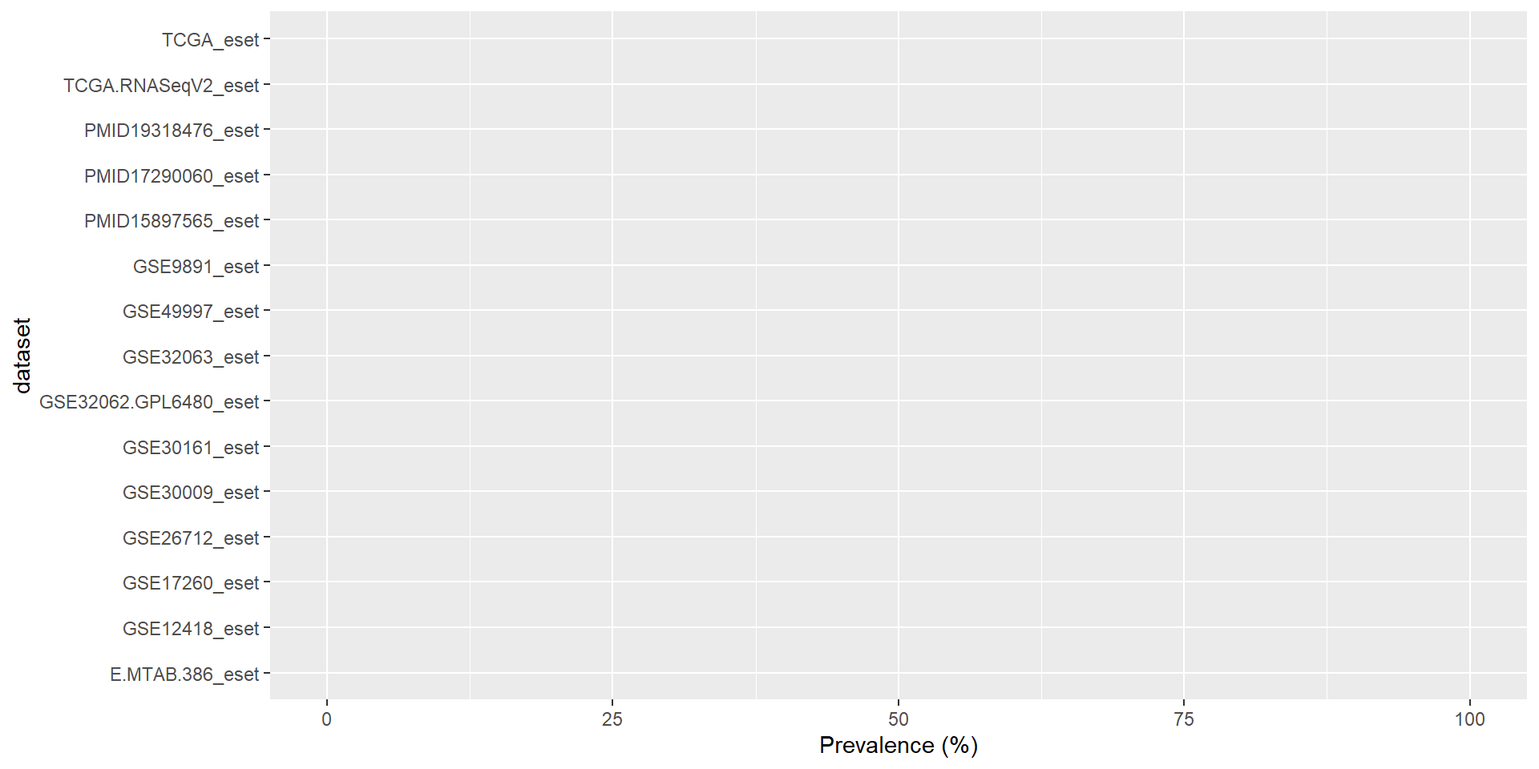
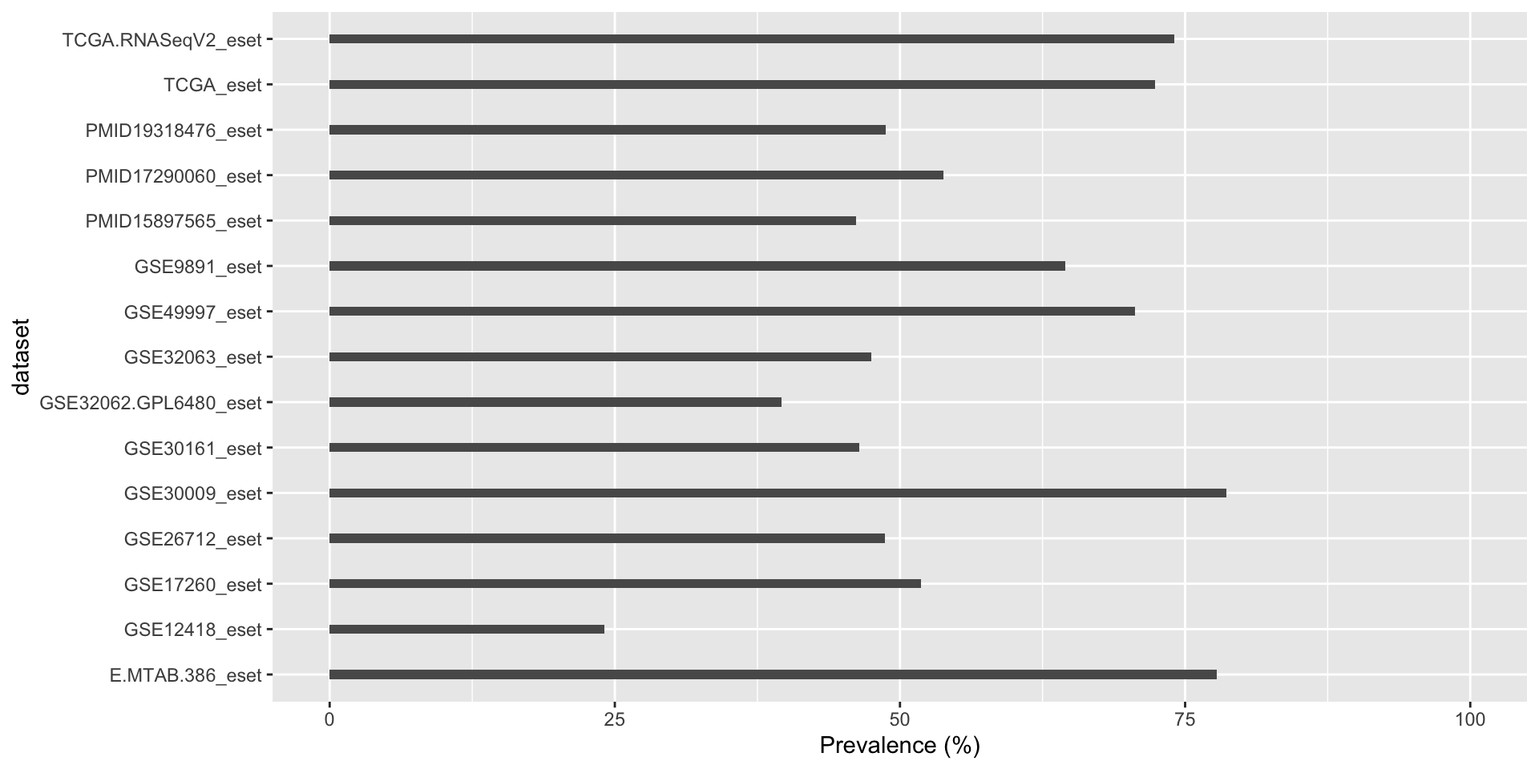
updating solutions

diff --git a/03-biostatistics/slides/03-biostatistics-solutions.html b/03-biostatistics/slides/03-biostatistics-solutions.html
@@ -12,7 +12,7 @@
 <script src="03-biostatistics-solutions_files/libs/quarto-contrib/code-fullscreen-1.0.0/code-fullscreen.js" defer="true"></script>
 <link href="03-biostatistics-solutions_files/libs/quarto-contrib/code-fullscreen-1.0.0/code-fullscreen.css" rel="stylesheet"><link rel="stylesheet" href="https://cdnjs.cloudflare.com/ajax/libs/font-awesome/4.7.0/css/font-awesome.min.css">
   <meta charset="utf-8">
-  <meta name="generator" content="quarto-1.3.450">
+  <meta name="generator" content="quarto-1.3.361">
 
   <meta name="author" content="Filippo Gambarota">
   <meta name="author" content="Gianmarco Altoè">
@@ -34,6 +34,71 @@
       margin: 0 0.8em 0.2em -1em; /* quarto-specific, see https://github.com/quarto-dev/quarto-cli/issues/4556 */ 
       vertical-align: middle;
     }
+    /* CSS for syntax highlighting */
+    pre > code.sourceCode { white-space: pre; position: relative; }
+    pre > code.sourceCode > span { display: inline-block; line-height: 1.25; }
+    pre > code.sourceCode > span:empty { height: 1.2em; }
+    .sourceCode { overflow: visible; }
+    code.sourceCode > span { color: inherit; text-decoration: inherit; }
+    div.sourceCode { margin: 1em 0; }
+    pre.sourceCode { margin: 0; }
+    @media screen {
+    div.sourceCode { overflow: auto; }
+    }
+    @media print {
+    pre > code.sourceCode { white-space: pre-wrap; }
+    pre > code.sourceCode > span { text-indent: -5em; padding-left: 5em; }
+    }
+    pre.numberSource code
+      { counter-reset: source-line 0; }
+    pre.numberSource code > span
+      { position: relative; left: -4em; counter-increment: source-line; }
+    pre.numberSource code > span > a:first-child::before
+      { content: counter(source-line);
+        position: relative; left: -1em; text-align: right; vertical-align: baseline;
+        border: none; display: inline-block;
+        -webkit-touch-callout: none; -webkit-user-select: none;
+        -khtml-user-select: none; -moz-user-select: none;
+        -ms-user-select: none; user-select: none;
+        padding: 0 4px; width: 4em;
+        color: #aaaaaa;
+      }
+    pre.numberSource { margin-left: 3em; border-left: 1px solid #aaaaaa;  padding-left: 4px; }
+    div.sourceCode
+      { color: #003b4f; background-color: #f1f3f5; }
+    @media screen {
+    pre > code.sourceCode > span > a:first-child::before { text-decoration: underline; }
+    }
+    code span { color: #003b4f; } /* Normal */
+    code span.al { color: #ad0000; } /* Alert */
+    code span.an { color: #5e5e5e; } /* Annotation */
+    code span.at { color: #657422; } /* Attribute */
+    code span.bn { color: #ad0000; } /* BaseN */
+    code span.bu { } /* BuiltIn */
+    code span.cf { color: #003b4f; } /* ControlFlow */
+    code span.ch { color: #20794d; } /* Char */
+    code span.cn { color: #8f5902; } /* Constant */
+    code span.co { color: #5e5e5e; } /* Comment */
+    code span.cv { color: #5e5e5e; font-style: italic; } /* CommentVar */
+    code span.do { color: #5e5e5e; font-style: italic; } /* Documentation */
+    code span.dt { color: #ad0000; } /* DataType */
+    code span.dv { color: #ad0000; } /* DecVal */
+    code span.er { color: #ad0000; } /* Error */
+    code span.ex { } /* Extension */
+    code span.fl { color: #ad0000; } /* Float */
+    code span.fu { color: #4758ab; } /* Function */
+    code span.im { color: #00769e; } /* Import */
+    code span.in { color: #5e5e5e; } /* Information */
+    code span.kw { color: #003b4f; } /* Keyword */
+    code span.op { color: #5e5e5e; } /* Operator */
+    code span.ot { color: #003b4f; } /* Other */
+    code span.pp { color: #ad0000; } /* Preprocessor */
+    code span.sc { color: #5e5e5e; } /* SpecialChar */
+    code span.ss { color: #20794d; } /* SpecialString */
+    code span.st { color: #20794d; } /* String */
+    code span.va { color: #111111; } /* Variable */
+    code span.vs { color: #20794d; } /* VerbatimString */
+    code span.wa { color: #5e5e5e; font-style: italic; } /* Warning */
   </style>
   <link rel="stylesheet" href="03-biostatistics-solutions_files/libs/revealjs/dist/theme/quarto.css">
   <link href="03-biostatistics-solutions_files/libs/revealjs/plugin/quarto-line-highlight/line-highlight.css" rel="stylesheet">
@@ -353,32 +418,19 @@ Gianmarco Altoè <a href="https://orcid.org/0000-0003-1154-9528" class="quarto-t
 </div>
 
   <p class="date">18-22 September 2023</p>
-</section><section id="TOC">
-<nav role="doc-toc"> 
-<h2 id="toc-title">Table of contents</h2>
-<ul>
-<li>
-<ul>
-<li><a href="#/packages" id="/toc-packages">Packages</a></li>
-</ul></li>
-<li><a href="#/proposed-solutions" id="/toc-proposed-solutions">Proposed solutions</a>
-<ul>
-<li><a href="#/setup" id="/toc-setup">Setup</a></li>
-<li><a href="#/prevalence" id="/toc-prevalence">Prevalence</a></li>
-<li><a href="#/debulking-gene" id="/toc-debulking-gene">debulking ~ gene</a></li>
-<li><a href="#/auc-and-standard-error" id="/toc-auc-and-standard-error">AUC and standard error</a></li>
-<li><a href="#/meta-analysis" id="/toc-meta-analysis">Meta-analysis</a></li>
-<li><a href="#/meta-analysis-1" id="/toc-meta-analysis-1">Meta-analysis</a></li>
-<li><a href="#/forest-plot" id="/toc-forest-plot">Forest Plot</a></li>
-</ul></li>
-<li><a href="#/comments" id="/toc-comments">Comments?</a></li>
-</ul>
-</nav>
 </section>
 
 <section class="slide level2">
 
 <h3 id="packages">Packages</h3>
+<div class="cell">
+<div class="sourceCode cell-code" id="cb1"><pre class="sourceCode numberSource r number-lines code-with-copy"><code class="sourceCode r"><span id="cb1-1"><a href="#cb1-1"></a><span class="fu">library</span>(tidyverse) <span class="co"># for data manipulation</span></span>
+<span id="cb1-2"><a href="#cb1-2"></a><span class="fu">library</span>(curatedOvarianData) <span class="co"># workshop data</span></span>
+<span id="cb1-3"><a href="#cb1-3"></a><span class="fu">library</span>(pROC)</span>
+<span id="cb1-4"><a href="#cb1-4"></a>devtools<span class="sc">::</span><span class="fu">load_all</span>() <span class="co"># load all functions for the workshop</span></span>
+<span id="cb1-5"><a href="#cb1-5"></a><span class="fu">library</span>(here)</span>
+<span id="cb1-6"><a href="#cb1-6"></a><span class="fu">library</span>(kableExtra)</span></code><button title="Copy to Clipboard" class="code-copy-button"><i class="bi"></i></button></pre></div>
+</div>
 </section>
 <section>
 <section id="proposed-solutions" class="title-slide slide level1 section center">
@@ -389,14 +441,23 @@ Gianmarco Altoè <a href="https://orcid.org/0000-0003-1154-9528" class="quarto-t
 <h2>Setup</h2>
 <p>Firstly, let’s subset the dataset selecting our predictor (i.e., the <strong>debulking</strong>), the dataset name and the selected gene.</p>
 <div class="cell">
+<div class="sourceCode cell-code" id="cb2"><pre class="sourceCode numberSource r number-lines code-with-copy"><code class="sourceCode r"><span id="cb2-1"><a href="#cb2-1"></a>datl <span class="ot">&lt;-</span> <span class="fu">readRDS</span>(<span class="fu">here</span>(<span class="st">"03-biostatistics"</span>, <span class="st">"objects"</span>, <span class="st">"ovarianclean.rds"</span>))</span>
+<span id="cb2-2"><a href="#cb2-2"></a>dat <span class="ot">&lt;-</span> dplyr<span class="sc">::</span><span class="fu">bind_rows</span>(datl, <span class="at">.id =</span> <span class="st">"dataset"</span>)</span>
+<span id="cb2-3"><a href="#cb2-3"></a></span>
+<span id="cb2-4"><a href="#cb2-4"></a><span class="co"># creating the binary debulking variable</span></span>
+<span id="cb2-5"><a href="#cb2-5"></a>dat<span class="sc">$</span>debulking01 <span class="ot">&lt;-</span> <span class="fu">ifelse</span>(dat<span class="sc">$</span>debulking <span class="sc">==</span> <span class="st">"optimal"</span>, <span class="dv">1</span>, <span class="dv">0</span>)</span>
+<span id="cb2-6"><a href="#cb2-6"></a></span>
+<span id="cb2-7"><a href="#cb2-7"></a>gene <span class="ot">&lt;-</span> <span class="st">"ABCA1"</span></span>
+<span id="cb2-8"><a href="#cb2-8"></a>dat_meta <span class="ot">&lt;-</span> dat[, <span class="fu">c</span>(<span class="st">"dataset"</span>, <span class="st">"debulking"</span>, <span class="st">"debulking01"</span>, gene)]</span>
+<span id="cb2-9"><a href="#cb2-9"></a><span class="fu">head</span>(dat_meta)</span></code><button title="Copy to Clipboard" class="code-copy-button"><i class="bi"></i></button></pre></div>
 <div class="cell-output cell-output-stdout">
-<pre><code>          dataset  debulking     ABCA1
-1 E.MTAB.386_eset suboptimal 10.839395
-2 E.MTAB.386_eset    optimal 11.227465
-3 E.MTAB.386_eset    optimal 11.375979
-4 E.MTAB.386_eset    optimal  9.716625
-5 E.MTAB.386_eset suboptimal 11.647426
-6 E.MTAB.386_eset    optimal 10.291002</code></pre>
+<pre><code>          dataset  debulking debulking01     ABCA1
+1 E.MTAB.386_eset suboptimal           0 10.839395
+2 E.MTAB.386_eset    optimal           1 11.227465
+3 E.MTAB.386_eset    optimal           1 11.375979
+4 E.MTAB.386_eset    optimal           1  9.716625
+5 E.MTAB.386_eset suboptimal           0 11.647426
+6 E.MTAB.386_eset    optimal           1 10.291002</code></pre>
 </div>
 </div>
 </section>
@@ -408,21 +469,38 @@ Gianmarco Altoè <a href="https://orcid.org/0000-0003-1154-9528" class="quarto-t
 <div class="tab-content">
 <div id="tabset-1-1">
 <div class="cell">
+<div class="sourceCode cell-code" id="cb4"><pre class="sourceCode numberSource r number-lines code-with-copy"><code class="sourceCode r"><span id="cb4-1"><a href="#cb4-1"></a>prev_and_n <span class="ot">&lt;-</span> <span class="cf">function</span>(data){</span>
+<span id="cb4-2"><a href="#cb4-2"></a>  <span class="fu">data.frame</span>(</span>
+<span id="cb4-3"><a href="#cb4-3"></a>    <span class="at">p =</span> <span class="fu">mean</span>(data<span class="sc">$</span>debulking01, <span class="at">na.rm =</span> <span class="cn">TRUE</span>),</span>
+<span id="cb4-4"><a href="#cb4-4"></a>    <span class="at">n =</span> <span class="fu">nrow</span>(data)</span>
+<span id="cb4-5"><a href="#cb4-5"></a>  )</span>
+<span id="cb4-6"><a href="#cb4-6"></a>}</span>
+<span id="cb4-7"><a href="#cb4-7"></a>prev <span class="ot">&lt;-</span> <span class="fu">lapply</span>(<span class="fu">split</span>(dat_meta, dat_meta<span class="sc">$</span>dataset), prev_and_n)</span>
+<span id="cb4-8"><a href="#cb4-8"></a>prev <span class="ot">&lt;-</span> dplyr<span class="sc">::</span><span class="fu">bind_rows</span>(prev, <span class="at">.id =</span> <span class="st">"dataset"</span>)</span>
+<span id="cb4-9"><a href="#cb4-9"></a><span class="fu">head</span>(prev)</span></code><button title="Copy to Clipboard" class="code-copy-button"><i class="bi"></i></button></pre></div>
 <div class="cell-output cell-output-stdout">
-<pre><code>          dataset  p   n
-1 E.MTAB.386_eset NA 129
-2   GSE12418_eset NA  54
-3   GSE17260_eset NA 110
-4   GSE26712_eset NA 195
-5   GSE30009_eset NA 103
-6   GSE30161_eset NA  58</code></pre>
+<pre><code>          dataset         p   n
+1 E.MTAB.386_eset 0.7777778 129
+2   GSE12418_eset 0.2407407  54
+3   GSE17260_eset 0.5181818 110
+4   GSE26712_eset 0.4864865 195
+5   GSE30009_eset 0.7864078 103
+6   GSE30161_eset 0.4642857  58</code></pre>
 </div>
 </div>
 </div>
 <div id="tabset-1-2">
-<div class="cell">
+<div class="cell" data-warnign="false">
+<details>
+<summary>Code</summary>
+<div class="sourceCode cell-code" id="cb6"><pre class="sourceCode numberSource r number-lines code-with-copy"><code class="sourceCode r"><span id="cb6-1"><a href="#cb6-1"></a>prev <span class="sc">|&gt;</span> </span>
+<span id="cb6-2"><a href="#cb6-2"></a>  <span class="fu">ggplot</span>(<span class="fu">aes</span>(<span class="at">x =</span> p<span class="sc">*</span><span class="dv">100</span>, <span class="at">y =</span> dataset)) <span class="sc">+</span></span>
+<span id="cb6-3"><a href="#cb6-3"></a>  <span class="fu">geom_col</span>(<span class="at">width =</span> <span class="fl">0.2</span>) <span class="sc">+</span></span>
+<span id="cb6-4"><a href="#cb6-4"></a>  <span class="fu">xlab</span>(<span class="st">"Prevalence (%)"</span>) <span class="sc">+</span></span>
+<span id="cb6-5"><a href="#cb6-5"></a>  <span class="fu">xlim</span>(<span class="fu">c</span>(<span class="dv">0</span>, <span class="dv">100</span>))</span></code><button title="Copy to Clipboard" class="code-copy-button"><i class="bi"></i></button></pre></div>
+</details>
 <div class="cell-output-display">
-<p><img data-src="03-biostatistics-solutions_files/figure-revealjs/unnamed-chunk-4-1.png" width="960"></p>
+<p><img data-src="03-biostatistics-solutions_files/figure-revealjs/unnamed-chunk-5-1.png" width="960"></p>
 </div>
 </div>
 </div>
@@ -432,8 +510,21 @@ Gianmarco Altoè <a href="https://orcid.org/0000-0003-1154-9528" class="quarto-t
 <section id="debulking-gene" class="slide level2">
 <h2>debulking ~ gene</h2>
 <p>Let’s see the density plots for dataset with the gene ABCA1:</p>
+<div class="cell">
+<details>
+<summary>Code</summary>
+<div class="sourceCode cell-code" id="cb7"><pre class="sourceCode numberSource r number-lines code-with-copy"><code class="sourceCode r"><span id="cb7-1"><a href="#cb7-1"></a>dat_meta <span class="sc">|&gt;</span> </span>
+<span id="cb7-2"><a href="#cb7-2"></a>  <span class="fu">drop_na</span>(debulking) <span class="sc">|&gt;</span> </span>
+<span id="cb7-3"><a href="#cb7-3"></a>  <span class="fu">ggplot</span>(<span class="fu">aes</span>(<span class="at">x =</span> ABCA1, <span class="at">fill =</span> debulking)) <span class="sc">+</span></span>
+<span id="cb7-4"><a href="#cb7-4"></a>  <span class="fu">geom_density</span>() <span class="sc">+</span></span>
+<span id="cb7-5"><a href="#cb7-5"></a>  <span class="fu">facet_wrap</span>(<span class="sc">~</span>dataset) <span class="sc">+</span></span>
+<span id="cb7-6"><a href="#cb7-6"></a>  <span class="fu">theme</span>(<span class="at">legend.position =</span> <span class="fu">c</span>(<span class="fl">0.9</span>,<span class="fl">0.1</span>),</span>
+<span id="cb7-7"><a href="#cb7-7"></a>        <span class="at">legend.title =</span> <span class="fu">element_blank</span>(),</span>
+<span id="cb7-8"><a href="#cb7-8"></a>        <span class="at">axis.title.y =</span> <span class="fu">element_blank</span>())</span></code><button title="Copy to Clipboard" class="code-copy-button"><i class="bi"></i></button></pre></div>
+</details>
 
-<img data-src="03-biostatistics-solutions_files/figure-revealjs/unnamed-chunk-5-1.png" width="960" class="r-stretch"><p>In some datasets, the gene ABCA1 discriminate more between the the debulking outcomes.</p>
+</div>
+<img data-src="03-biostatistics-solutions_files/figure-revealjs/unnamed-chunk-6-1.png" width="960" class="r-stretch"><p>In some datasets, the gene ABCA1 discriminate more between the the debulking outcomes.</p>
 </section>
 <section id="auc-and-standard-error" class="slide level2">
 <h2>AUC and standard error</h2>
@@ -441,10 +532,22 @@ Gianmarco Altoè <a href="https://orcid.org/0000-0003-1154-9528" class="quarto-t
 <ul id="tabset-2" class="panel-tabset-tabby"><li><a data-tabby-default="" href="#tabset-2-1">ROC</a></li><li><a href="#tabset-2-2">Analytical method</a></li><li><a href="#tabset-2-3">Plot</a></li><li><a href="#tabset-2-4">Bootstrapping</a></li><li><a href="#tabset-2-5">Plot</a></li></ul>
 <div class="tab-content">
 <div id="tabset-2-1">
-
+<div class="cell">
+<div class="sourceCode cell-code" id="cb8"><pre class="sourceCode numberSource r number-lines code-with-copy"><code class="sourceCode r"><span id="cb8-1"><a href="#cb8-1"></a>roc_list <span class="ot">&lt;-</span> <span class="fu">lapply</span>(<span class="fu">split</span>(dat_meta, dat_meta<span class="sc">$</span>dataset), </span>
+<span id="cb8-2"><a href="#cb8-2"></a>                   <span class="cf">function</span>(x) pROC<span class="sc">::</span><span class="fu">roc</span>(debulking <span class="sc">~</span> ABCA1, <span class="at">data =</span> x))</span></code><button title="Copy to Clipboard" class="code-copy-button"><i class="bi"></i></button></pre></div>
+</div>
 </div>
 <div id="tabset-2-2">
 <div class="cell">
+<div class="sourceCode cell-code" id="cb9"><pre class="sourceCode numberSource r number-lines code-with-copy"><code class="sourceCode r"><span id="cb9-1"><a href="#cb9-1"></a>aucs <span class="ot">&lt;-</span> <span class="fu">sapply</span>(roc_list,  auc)</span>
+<span id="cb9-2"><a href="#cb9-2"></a><span class="co"># the var function is used to compute the sampling variability</span></span>
+<span id="cb9-3"><a href="#cb9-3"></a>aucs_se <span class="ot">&lt;-</span> <span class="fu">sapply</span>(roc_list, <span class="cf">function</span>(x) <span class="fu">sqrt</span>(<span class="fu">var</span>(x)))</span>
+<span id="cb9-4"><a href="#cb9-4"></a>auc_d <span class="ot">&lt;-</span> <span class="fu">data.frame</span>(<span class="at">dataset =</span> <span class="fu">names</span>(aucs), <span class="at">auc =</span> aucs, <span class="at">se =</span> aucs_se)</span>
+<span id="cb9-5"><a href="#cb9-5"></a>ci <span class="ot">&lt;-</span> <span class="fu">sapply</span>(roc_list, <span class="cf">function</span>(x) pROC<span class="sc">::</span><span class="fu">ci.auc</span>(x))</span>
+<span id="cb9-6"><a href="#cb9-6"></a>auc_d<span class="sc">$</span>lower <span class="ot">&lt;-</span> ci[<span class="dv">1</span>, ]</span>
+<span id="cb9-7"><a href="#cb9-7"></a>auc_d<span class="sc">$</span>upper <span class="ot">&lt;-</span> ci[<span class="dv">3</span>, ]</span>
+<span id="cb9-8"><a href="#cb9-8"></a></span>
+<span id="cb9-9"><a href="#cb9-9"></a><span class="fu">head</span>(auc_d)</span></code><button title="Copy to Clipboard" class="code-copy-button"><i class="bi"></i></button></pre></div>
 <div class="cell-output cell-output-stdout">
 <pre><code>                        dataset       auc         se     lower     upper
 E.MTAB.386_eset E.MTAB.386_eset 0.4713921 0.07114057 0.3319592 0.6108251
@@ -458,28 +561,65 @@ GSE30161_eset     GSE30161_eset 0.5435897 0.08069339 0.3854336 0.7017459</code><
 </div>
 <div id="tabset-2-3">
 <div class="cell">
+<details>
+<summary>Code</summary>
+<div class="sourceCode cell-code" id="cb11"><pre class="sourceCode numberSource r number-lines code-with-copy"><code class="sourceCode r"><span id="cb11-1"><a href="#cb11-1"></a>auc_d <span class="sc">|&gt;</span> </span>
+<span id="cb11-2"><a href="#cb11-2"></a>  <span class="fu">ggplot</span>(<span class="fu">aes</span>(<span class="at">x =</span> auc, <span class="at">y =</span> dataset)) <span class="sc">+</span></span>
+<span id="cb11-3"><a href="#cb11-3"></a>  <span class="fu">geom_point</span>() <span class="sc">+</span></span>
+<span id="cb11-4"><a href="#cb11-4"></a>  <span class="fu">geom_segment</span>(<span class="fu">aes</span>(<span class="at">x =</span> lower, <span class="at">xend =</span> upper, <span class="at">y =</span> dataset, <span class="at">yend =</span> dataset)) <span class="sc">+</span></span>
+<span id="cb11-5"><a href="#cb11-5"></a>  <span class="fu">xlim</span>(<span class="fu">c</span>(<span class="dv">0</span>, <span class="dv">1</span>))</span></code><button title="Copy to Clipboard" class="code-copy-button"><i class="bi"></i></button></pre></div>
+</details>
 <div class="cell-output-display">
-<p><img data-src="03-biostatistics-solutions_files/figure-revealjs/unnamed-chunk-8-1.png" width="960"></p>
+<p><img data-src="03-biostatistics-solutions_files/figure-revealjs/unnamed-chunk-9-1.png" width="960"></p>
 </div>
 </div>
 </div>
 <div id="tabset-2-4">
-<div class="cell">
+<div class="cell" data-hash="03-biostatistics-solutions_cache/revealjs/unnamed-chunk-10_ec3e3af23134f8553698acaa69c67d26">
+<div class="sourceCode cell-code" id="cb12"><pre class="sourceCode numberSource r number-lines code-with-copy"><code class="sourceCode r"><span id="cb12-1"><a href="#cb12-1"></a>boot_auc <span class="ot">&lt;-</span> <span class="cf">function</span>(fit, <span class="at">nboot =</span> <span class="fl">5e3</span>, <span class="at">direction =</span> <span class="cn">NULL</span>){</span>
+<span id="cb12-2"><a href="#cb12-2"></a>    <span class="cf">if</span>(<span class="fu">is.null</span>(direction)) direction <span class="ot">&lt;-</span> fit<span class="sc">$</span>direction</span>
+<span id="cb12-3"><a href="#cb12-3"></a>    aucs <span class="ot">&lt;-</span> <span class="fu">rep</span>(<span class="dv">0</span>, nboot)</span>
+<span id="cb12-4"><a href="#cb12-4"></a>    <span class="cf">for</span>(i <span class="cf">in</span> <span class="dv">1</span><span class="sc">:</span>nboot){</span>
+<span id="cb12-5"><a href="#cb12-5"></a>        controls <span class="ot">&lt;-</span> <span class="fu">sample</span>(fit<span class="sc">$</span>controls, <span class="at">replace =</span> <span class="cn">TRUE</span>)</span>
+<span id="cb12-6"><a href="#cb12-6"></a>        cases <span class="ot">&lt;-</span> <span class="fu">sample</span>(fit<span class="sc">$</span>cases, <span class="at">replace =</span> <span class="cn">TRUE</span>)</span>
+<span id="cb12-7"><a href="#cb12-7"></a>        aucs[i] <span class="ot">&lt;-</span> pROC<span class="sc">::</span><span class="fu">roc</span>(<span class="at">cases =</span> cases, <span class="at">controls =</span> controls, <span class="at">direction =</span> direction, <span class="at">quiet =</span> <span class="cn">TRUE</span>)<span class="sc">$</span>auc</span>
+<span id="cb12-8"><a href="#cb12-8"></a>    }</span>
+<span id="cb12-9"><a href="#cb12-9"></a>    <span class="fu">return</span>(aucs)</span>
+<span id="cb12-10"><a href="#cb12-10"></a>}</span>
+<span id="cb12-11"><a href="#cb12-11"></a></span>
+<span id="cb12-12"><a href="#cb12-12"></a><span class="fu">set.seed</span>(<span class="dv">2023</span>)</span>
+<span id="cb12-13"><a href="#cb12-13"></a><span class="co"># get the direction, auto detecting direction could lead to biased AUC see https://cran.r-project.org/web/packages/pROC/pROC.pdf</span></span>
+<span id="cb12-14"><a href="#cb12-14"></a></span>
+<span id="cb12-15"><a href="#cb12-15"></a>auc_list <span class="ot">&lt;-</span> <span class="fu">lapply</span>(roc_list, boot_auc)</span>
+<span id="cb12-16"><a href="#cb12-16"></a>aucs_se <span class="ot">&lt;-</span> <span class="fu">sapply</span>(auc_list, sd)</span>
+<span id="cb12-17"><a href="#cb12-17"></a>aucs_qs <span class="ot">&lt;-</span> <span class="fu">sapply</span>(auc_list, <span class="cf">function</span>(x) <span class="fu">quantile</span>(x, <span class="fu">c</span>(<span class="fl">0.025</span>, <span class="fl">0.5</span>, <span class="fl">0.975</span>)))</span>
+<span id="cb12-18"><a href="#cb12-18"></a>aucs_qs <span class="ot">&lt;-</span> <span class="fu">t</span>(aucs_qs)</span>
+<span id="cb12-19"><a href="#cb12-19"></a>aucs_d <span class="ot">&lt;-</span> <span class="fu">data.frame</span>(<span class="at">auc =</span> aucs_qs[, <span class="dv">2</span>], <span class="at">se =</span> aucs_se, <span class="at">lower =</span> aucs_qs[, <span class="dv">1</span>], <span class="at">upper =</span> aucs_qs[, <span class="dv">3</span>], <span class="at">dataset =</span> <span class="fu">names</span>(roc_list))</span>
+<span id="cb12-20"><a href="#cb12-20"></a></span>
+<span id="cb12-21"><a href="#cb12-21"></a><span class="fu">head</span>(aucs_d)</span></code><button title="Copy to Clipboard" class="code-copy-button"><i class="bi"></i></button></pre></div>
 <div class="cell-output cell-output-stdout">
 <pre><code>                      auc         se     lower     upper         dataset
-E.MTAB.386_eset 0.4897524 0.08032911 0.3787170 0.6140611 E.MTAB.386_eset
-GSE12418_eset   0.4122475 0.11257063 0.2974702 0.6398920   GSE12418_eset
-GSE17260_eset   0.5029161 0.06505857 0.4446659 0.6247987   GSE17260_eset
-GSE26712_eset   0.5014737 0.03141245 0.4427707 0.5368486   GSE26712_eset
-GSE30009_eset   0.5880806 0.08965026 0.3924290 0.6555517   GSE30009_eset
-GSE30161_eset   0.5893981 0.08012873 0.4767903 0.7264124   GSE30161_eset</code></pre>
+E.MTAB.386_eset 0.4712099 0.06999751 0.3363566 0.6049563 E.MTAB.386_eset
+GSE12418_eset   0.4969136 0.10109867 0.2962963 0.6944444   GSE12418_eset
+GSE17260_eset   0.5150612 0.05541150 0.4094505 0.6229725   GSE17260_eset
+GSE26712_eset   0.4934503 0.04343229 0.4080643 0.5780146   GSE26712_eset
+GSE30009_eset   0.5244108 0.07129170 0.3897166 0.6647026   GSE30009_eset
+GSE30161_eset   0.5442308 0.07930556 0.3807692 0.6961538   GSE30161_eset</code></pre>
 </div>
 </div>
 </div>
 <div id="tabset-2-5">
 <div class="cell">
+<details>
+<summary>Code</summary>
+<div class="sourceCode cell-code" id="cb14"><pre class="sourceCode numberSource r number-lines code-with-copy"><code class="sourceCode r"><span id="cb14-1"><a href="#cb14-1"></a>aucs_d <span class="sc">|&gt;</span> </span>
+<span id="cb14-2"><a href="#cb14-2"></a>  <span class="fu">ggplot</span>(<span class="fu">aes</span>(<span class="at">x =</span> auc, <span class="at">y =</span> dataset)) <span class="sc">+</span></span>
+<span id="cb14-3"><a href="#cb14-3"></a>  <span class="fu">geom_point</span>() <span class="sc">+</span></span>
+<span id="cb14-4"><a href="#cb14-4"></a>  <span class="fu">geom_segment</span>(<span class="fu">aes</span>(<span class="at">x =</span> lower, <span class="at">xend =</span> upper, <span class="at">y =</span> dataset, <span class="at">yend =</span> dataset)) <span class="sc">+</span></span>
+<span id="cb14-5"><a href="#cb14-5"></a>  <span class="fu">xlim</span>(<span class="fu">c</span>(<span class="dv">0</span>, <span class="dv">1</span>))</span></code><button title="Copy to Clipboard" class="code-copy-button"><i class="bi"></i></button></pre></div>
+</details>
 <div class="cell-output-display">
-<p><img data-src="03-biostatistics-solutions_files/figure-revealjs/unnamed-chunk-10-1.png" width="960"></p>
+<p><img data-src="03-biostatistics-solutions_files/figure-revealjs/unnamed-chunk-11-1.png" width="960"></p>
 </div>
 </div>
 </div>
@@ -489,6 +629,11 @@ GSE30161_eset   0.5893981 0.08012873 0.4767903 0.7264124   GSE30161_eset</code><
 <section id="meta-analysis" class="slide level2">
 <h2>Meta-analysis</h2>
 <div class="cell">
+<div class="sourceCode cell-code" id="cb15"><pre class="sourceCode numberSource r number-lines code-with-copy"><code class="sourceCode r"><span id="cb15-1"><a href="#cb15-1"></a><span class="fu">library</span>(metafor)</span>
+<span id="cb15-2"><a href="#cb15-2"></a>auc_d<span class="sc">$</span>var <span class="ot">&lt;-</span> auc_d<span class="sc">$</span>se<span class="sc">^</span><span class="dv">2</span></span>
+<span id="cb15-3"><a href="#cb15-3"></a></span>
+<span id="cb15-4"><a href="#cb15-4"></a>fit_rma <span class="ot">&lt;-</span> <span class="fu">rma</span>(auc, var, <span class="at">data =</span> auc_d)</span>
+<span id="cb15-5"><a href="#cb15-5"></a><span class="fu">summary</span>(fit_rma)</span></code><button title="Copy to Clipboard" class="code-copy-button"><i class="bi"></i></button></pre></div>
 <div class="cell-output cell-output-stdout">
 <pre><code>
 Random-Effects Model (k = 15; tau^2 estimator: REML)
@@ -524,6 +669,8 @@ z = \frac{\hat{AUC} - AUC_0}{\hat{SE_{AUC}}}
 z = \frac{\hat{AUC} - 0.5}{SE_{\hat{AUC}}}
 \]</span></p>
 <div class="cell">
+<div class="sourceCode cell-code" id="cb17"><pre class="sourceCode numberSource r number-lines code-with-copy"><code class="sourceCode r"><span id="cb17-1"><a href="#cb17-1"></a><span class="co"># pvalue testing the null of 0.5</span></span>
+<span id="cb17-2"><a href="#cb17-2"></a><span class="fu">pnorm</span>((fit_rma<span class="sc">$</span>b[[<span class="dv">1</span>]] <span class="sc">-</span> <span class="fl">0.5</span>)<span class="sc">/</span>fit_rma<span class="sc">$</span>se, <span class="at">lower.tail =</span> <span class="cn">FALSE</span>)<span class="sc">*</span><span class="dv">2</span></span></code><button title="Copy to Clipboard" class="code-copy-button"><i class="bi"></i></button></pre></div>
 <div class="cell-output cell-output-stdout">
 <pre><code>[1] 8.38819e-06</code></pre>
 </div>
@@ -531,8 +678,11 @@ z = \frac{\hat{AUC} - 0.5}{SE_{\hat{AUC}}}
 </section>
 <section id="forest-plot" class="slide level2">
 <h2>Forest Plot</h2>
+<div class="cell">
+<div class="sourceCode cell-code" id="cb19"><pre class="sourceCode numberSource r number-lines code-with-copy"><code class="sourceCode r"><span id="cb19-1"><a href="#cb19-1"></a><span class="fu">forest</span>(fit_rma, <span class="at">refline =</span> <span class="fl">0.5</span>)</span></code><button title="Copy to Clipboard" class="code-copy-button"><i class="bi"></i></button></pre></div>
 
-<img data-src="03-biostatistics-solutions_files/figure-revealjs/unnamed-chunk-13-1.png" width="960" class="r-stretch"></section></section>
+</div>
+<img data-src="03-biostatistics-solutions_files/figure-revealjs/unnamed-chunk-14-1.png" width="960" class="r-stretch"></section></section>
 <section id="comments" class="title-slide slide level1 question center">
 <h1>Comments?</h1>
 <div class="footer footer-default">
